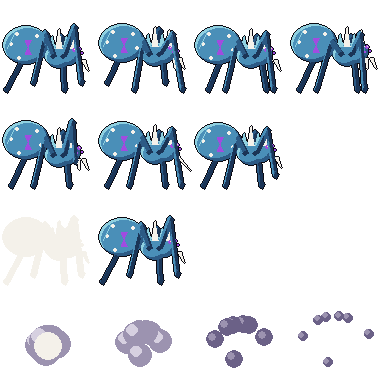
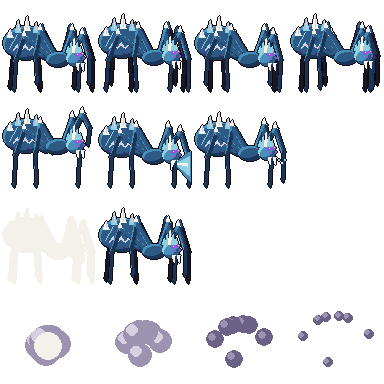
Shadowfall C2: screen-shake row in the pause menu; realm ids, Sunfang and the 7 lieutenants in rules/names.gd (boss/ reads Names directly); frost_matriarch redrawn as a crowned ice spider with frost breath

Changed region(s): [[0.0, 0.0312, 1.0, 0.25], [0.0, 0.2812, 0.75, 0.5], [0.25, 0.5312, 0.5, 0.75]]

diff --git a/shadowfall/art/src/make_monsters.py b/shadowfall/art/src/make_monsters.py
@@ -609,46 +609,72 @@ def stone_warden(s, ph, st):
 
 
 def frost_matriarch(s, ph, st):
-    b = round(sin(ph * 2) * 0) + (-round(abs(sin(ph)) * 2) if st is None else (3, 0, 1)[st])
-    fw = (0, 4, 2)[st] if st is not None else 0
-    LG = ("water1", "water2", "water3")
-    FG = ("water1", "water1", "water2")
-    hips = [(66, 0), (62, 1), (56, 2), (50, 3)]
-    feet = [(84, 0), (72, 0), (36, 0), (14, 0)]
+    """The Rime Matriarch's brood-queen: a great ice spider, knees high over her back, a crown of icicles,
+    rime crystals on her abdomen and umbral eyes. Attack: rears, then breathes a cone of frost."""
+    b = -round(abs(sin(ph)) * 2) if st is None else (-3, 1, 0)[st]
+    rear = (6, 0, 2)[st] if st is not None else 0          # her front lifts on the wind-up
+    NEAR = ("water1", "water2", "water3")
+    FAR = ("ink1", "ink2", "water1")
+    hips = [(66, 58), (62, 59), (57, 59), (52, 58)]
+    feet = [88, 78, 36, 14]
+    knees = [(82, 34), (72, 30), (40, 30), (24, 36)]
 
-    def legs(idx, cols, off):
+    def legs(idx, cols, off, w=1.0):
         for i in idx:
-            hxx, _ = hips[i]
+            up = rear if i < 2 else 0
+            hx, hy = hips[i][0], hips[i][1] + b - up
             p = ph + pi * (i % 2) + off
-            fx = feet[i][0] + (round(sin(p) * 5) if st is None else 0) + (fw if i == 0 else 0)
-            lift = round(max(0, cos(p)) * 7) if st is None else 0
-            fy = 90 - lift
-            if st is not None and i == 0:
-                fy = (66, 90, 80)[st]
-                fx = feet[0][0] + (-6 if st == 0 else fw)
-            kx = hxx + (fx - hxx) * .4 + (4 if i == 0 else 0)
-            ky = 34 + 3 * i - (lift if lift else 0) - (8 if (st == 0 and i == 0) else 0)
-            part(s, cols, lambda t, hxx=hxx, kx=kx, ky=ky, fx=fx, fy=fy: (limb(t, (hxx, 56 + b), (kx, ky), 7),
-                 limb(t, (kx, ky), (fx, fy), 5), poly(t, W, [(fx - 2, fy - 2), (fx + 1, fy + 2), (fx + 3, fy - 2)])))
-    legs((1, 3), FG, pi * .5)
-    ab = (st == 0) * 4
-    part(s, ("water2", "water3", "water4"), lambda t: ellipse(t, W, 6, 26 + b - ab, 46, 38))
-    over(s, lambda t: (poly(t, "shadow2", [(28, 40 + b - ab), (34, 40 + b - ab), (31, 47 + b - ab), (34, 54 + b - ab), (28, 54 + b - ab), (31, 47 + b - ab)]),
-                       [circle(t, "ink7", x, y + b - ab, 2) for x, y in ((14, 44), (20, 34), (40, 36), (44, 50), (22, 58))],
-                       [line(t, "water4", (10, 48 + b - ab), (18, 32 + b - ab))]))
-    part(s, ("water2", "water3", "water4"), lambda t: (ellipse(t, W, 48, 44 + b, 28, 24), circle(t, W, 72 + fw // 2, 54 + b, 11)))
-    for k in range(4):
-        x = 52 + k * 7
-        poly(s, "ink7" if k % 2 else "water4", [(x, 48 + b), (x + 3, 36 + b - k % 2 * 4 - (k == 1) * 3), (x + 6, 48 + b)])
-    hx = 74 + fw // 2
-    for ex, ey, r in ((3, 0, 2), (8, -1, 2), (6, 4, 1), (11, 3, 1)):
-        circle(s, "shadow2", hx + ex, 50 + b + ey, r)
-    px(s, "light1", hx + 3, 49 + b)
-    px(s, "light1", hx + 8, 48 + b)
-    sp = 6 if st == 1 else 2
+            fx = feet[i] + (round(sin(p) * 4) if st is None else 0)
+            lift = round(max(0, cos(p)) * 6) if st is None else 0
+            fy = 91 - lift
+            if st is not None and i == 0:                  # the front leg: raised, then stabs down
+                fx, fy = ((88, 50), (93, 91), (91, 86))[st]
+            kx, ky = knees[i][0] + (fx - feet[i]) // 2, knees[i][1] + b - up - (st == 0 and i == 0) * 8
+            d = 1 if i < 2 else -1
+            ax, ay = kx + (fx - kx) * .6 + 3 * d, ky + (fy - ky) * .45
+            part(s, cols, lambda t, hx=hx, hy=hy, kx=kx, ky=ky, ax=ax, ay=ay, fx=fx, fy=fy: (
+                limb(t, (hx, hy), (kx, ky), 6 * w), limb(t, (kx, ky), (ax, ay), 5 * w), limb(t, (ax, ay), (fx, fy - 3), 3),
+                poly(t, W, [(fx - 2, fy - 4), (fx + 1, fy - 4), (fx, fy)])))
+            poly(s, "ink7" if cols is NEAR else "water2", [(kx - 2, ky - 1), (kx, ky - 6), (kx + 2, ky)])  # knee spur
+    legs((0, 1, 2, 3), FAR, pi * .5 + .3, .85)
+    # abdomen, raised behind her, crusted with rime
+    ay = 26 + b
+    part(s, NEAR, lambda t: (ellipse(t, W, 3, ay, 46, 34), ellipse(t, W, 38, ay + 20, 16, 14)))
+    over(s, lambda t: ([poly(t, "ink6", [(13 + k * 8, ay + 24), (17 + k * 8, ay + 18), (21 + k * 8, ay + 24), (17 + k * 8, ay + 21)])
+                        for k in range(3)],
+                       [line(t, "water4", (9, ay + 22), (17, ay + 8))],
+                       [circle(t, "shadow1", x, ay + y, 1) for x, y in ((12, 28), (28, 30), (40, 26))]))
+    for k, (x, y, hgt) in enumerate(((10, 8, 8), (18, 3, 12), (27, 1, 14), (36, 3, 10), (43, 8, 7))):
+        poly(s, "water4" if k % 2 else "ink7", [(x - 3, ay + y + 3), (x, ay + y + 3 - hgt), (x + 3, ay + y + 3)])
+        line(s, "ink6", (x, ay + y + 1), (x, ay + y + 4 - hgt))
+    legs((1, 3), NEAR, 0)
+    legs((0, 2), NEAR, .3)
+    # thorax and head (on top of the legs), the crown, the eyes
+    hy = 50 + b - rear
+    part(s, NEAR, lambda t: ellipse(t, W, 46, hy + 2, 24, 15))
+    part(s, ("water2", "water3", "water4"), lambda t: ellipse(t, W, 66, hy, 18, 16))
+    for k, hgt in enumerate((6, 10, 14, 10, 6)):
+        x = 68 + k * 3
+        poly(s, "ink7" if k == 2 else "water4", [(x - 2, hy + 2), (x, hy + 2 - hgt), (x + 2, hy + 2)])
+    ex = 77
+    for dx, dy, r in ((0, 5, 2), (5, 4, 2), (2, 9, 1), (7, 8, 1)):
+        circle(s, "shadow2", ex + dx, hy + dy, r)
+    px(s, "light1", ex, hy + 4)
+    px(s, "light1", ex + 5, hy + 3)
+    # fangs: closed on the walk, spread wide when she breathes
+    sp = 3 if st == 1 else 0
     for k in (0, 1):
-        poly(s, "ink7", [(hx + 6 + k * 7 - sp * k + 0, 60 + b), (hx + 9 + k * 7 - sp * k, 60 + b), (hx + 8 + k * 7 + sp * (k - 0), 70 + b + (4 if st == 1 else 0))])
-    legs((0, 2), LG, 0)
+        x = ex + k * 5
+        poly(s, "ink7", [(x - 1, hy + 13), (x + 2, hy + 13), (x + 1 + (k * 2 - 1) * sp, hy + 20 + (st == 1) * 2)])
+    if st == 1:                                            # a cone of frost
+        fx, fy = ex + 4, hy + 16
+        L = 94 - fx
+        poly(s, "water3", [(fx, fy - 2), (fx + L, fy - 12), (fx + L, fy + 18), (fx, fy + 3)])
+        poly(s, "water4", [(fx, fy - 1), (fx + L - 1, fy - 7), (fx + L - 1, fy + 12), (fx, fy + 2)])
+        poly(s, "ink7", [(fx, fy), (fx + L - 3, fy), (fx + L - 3, fy + 3), (fx, fy + 1)])
+    elif st == 2:
+        for k in range(3):
+            circle(s, "water4" if k != 1 else "ink7", ex + 10 + k * 3, hy + 16 + (k % 2) * 3, 1)
 
 
 def cinder_drake(s, ph, st):

diff --git a/.handoff/monte-flora-wave-c2-realm-boss.md b/.handoff/monte-flora-wave-c2-realm-boss.md
@@ -1,18 +1,26 @@
-# Handoff: Wave C2 (realm + boss look and feel), 2026-11-22
+# Handoff: Wave C2 (realm + boss), 2026-11-22
 
-## Done (PRs into phase-2, auto-merge on green)
-- #38 `monte-flora/c2-realm-art`: overworld drawn from `realm_<land>` sheets (overworld/realm_tiles.gd: ground+shore autotile, objects, canopy layer), hero_top sprite, map monsters per land (MapMonster.OF_LAND), banners from Names via WorldMap.REALM_ID/names_id(). Tests: test_realm_art_per_land, test_gate_art_opens_with_the_ability.
-- #41 `monte-flora/c2-boss-art`: throne room hero_side sprite, tiles_castle walls/floor/platforms (_draw_solid), GloomLight on boss screen, ui/hud hearts, pixel font, lieutenant echo ghosts (ECHO_SHEET). Test: test_throne_art_in_place.
-- Both include #37's commit until it merges. Check `gh pr checks 38` / `41`; pytest "tests" was slow to start.
+## Done (merged into phase-2)
+- #38 realm art, #41 boss art, #43 monster art fixes (ash_scarab + cave_bat redrawn, thin fangs, padded-canvas
+  build() in art/src/make_monsters.py shifts each monster inside the 1-px margin: 0 clip notes),
+  #44 juice (overworld/juice.gd: Juice.Shake + Juice.burst; overworld hit-stop/shake/poof/motes/red hurt edge/
+  camera look-ahead; boss sparks via boss.gd _fx(); UiSettings.screen_shake saved under [access]).
 
-## In flight: branch `monte-flora/c2-art-fixes` (this commit: only shot.gd + this file)
-Goal 3: redraw weak monsters in shadowfall/art/src/make_monsters.py: ash_scarab (blob, needs a real beetle: domed shell split line, horn, 6 legs), cave_bat (wing is a flat triangle: needs scalloped membrane + finger bones), frost_matriarch (spider legs clip right edge; st=1 and move ph=1.6 clip), sand_wyrm (teeth read as a white box in attack: use jaws() with more, thinner teeth). Then fix every "clipped at the margin" note (run `SDL_AUDIODRIVER=dummy <python> shadowfall/art/src/make_monsters.py`; ~25 notes: cinder_drake all frames, frost_wolf, ember_imp, bog_wisp, ...). Rebuild, `sh shadowfall/tools/run_tests.sh --only=art` (ArtCheck), screenshot sheets.
-
-## Next
-- Goal 4 juice: overworld has no hit-stop/shake/particles yet. Spec docs/teen/gameplay §4 table: sword hit 3 f stop + shake 1px/4f + white flash 4 f (MapMonster already flashes); kill 6 f + 2px/6f + light motes (+ play the `poof` anim); hurt 10 f + 5px/12f + red edge. Camera: overworld cam uses smoothing 8; consider drag margins / look-ahead. Boss: ThroneFight already has hitstop/slowmo/shake events; add particles (sparks on clang, motes on kill) in boss.gd.
-- Shake OFF switch: ask the coordinator for a ui/settings.gd accessibility value (not my folder).
-- Asks for others: rules/names.gd could add realm ids (emberhold...) to LAND; LIEUTENANT names table (boss uses fallbacks).
+## Next: task_6d102335ee18 (approved, ONE small PR into phase-2; may touch ui/pause.gd and rules/names.gd)
+1. ui/pause.gd: a row for the screen-shake switch (UiSettings.screen_shake; save via UiSettings.save()).
+   Look at how the SOUND tab rows work (ui/tests/test_ui.gd test_volume_steps_and_saves); add a ui test.
+2. rules/names.gd: realm ids in LAND (emberhold, weepingwold, hollowcrown, drowned_mere, wintermarch,
+   cinder_wastes, mirefen, shadowgate, umbral_reach: see MapMonster.OF_LAND), plus BOSS / SUNFANG /
+   LIEUTENANT names (epic, original, LOTR/GoT tone, teen-safe). Use them in boss/ (boss uses fallbacks
+   now: Castle.display("LIEUTENANT", id, ...), lieutenant ids in boss.gd ECHO_SHEET).
+3. Redraw frost_matriarch in art/src/make_monsters.py (96 cell; only clip-fixed so far; looks like a blue
+   blob + stick legs). Run: `cd shadowfall/art && SDL_VIDEODRIVER=dummy <py> src/make_monsters.py frost_matriarch`
+   (py = /Users/montgomeryflora/noah-adventure/.pixi/envs/default/bin/python); must print no notes.
+   Zoom contact sheet: a 4x pygame upscale of sheets/monster_frost_matriarch.png (script was in old scratchpad).
+- Tests: `sh shadowfall/tools/run_tests.sh` (all) and pytest `<py> -m pytest -q -n auto tests`.
+- Then worker_done to the coordinator (task_6d102335ee18, dispatch ctx_56753d91423b).
 
 ## Gotchas
-- A texture first `load()`ed inside a draw callback draws nothing (white/clear). Load in _ready.
-- Screenshots: `art/src/shot.gd` (window render at 2x, silent).
+- A texture first load()ed inside a draw callback draws nothing. Load in _ready.
+- GDScript: `var x := m.hit()` on an untyped loop var fails to parse; type it.
+- Hit-stop must not skip overworld cell checks (Lost Light pickup).
